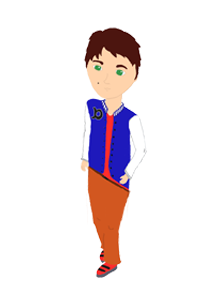
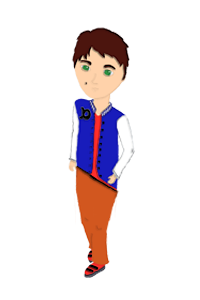
Codigo
Cambios en la animacion, 1 fondo y en la posicion del personaje.

Changed region(s): [[0.33, 0.09, 0.72, 0.93], [0.72, 0.48, 0.75, 0.51]]

diff --git a/Codigo y Pseudo-codigo/Slick2DTest/src/Slick2DTest/Habitacion1.java b/Codigo y Pseudo-codigo/Slick2DTest/src/Slick2DTest/Habitacion1.java
@@ -19,7 +19,7 @@ public class Habitacion1 extends BasicGameState {
     private Principal principal;
     int escenas = 0;
     private Input entrada;
-    float characterPositionX = 250,  characterPositionY = 406;
+    float characterPositionX = 250,  characterPositionY = 376;
     BasicGameState prevState = Principal.prevState;
 
     public Habitacion1(Principal principal) {
@@ -35,7 +35,7 @@ public class Habitacion1 extends BasicGameState {
 
     @Override
     public void init(GameContainer gc, StateBasedGame sbg) throws SlickException {
-       this.habitacion = new Image("res/habitacion1.jpg");
+       this.habitacion = new Image("res/habitacion1-fantasma.jpg");
        this.habitacion1 = new Image ("res/habitacion1-1.jpg");
        this.habitacion2 = new Image ("res/habitacion1-2.jpg");
        this.habitacion3 = new Image ("res/habitacion1-3.jpg");

diff --git a/Codigo y Pseudo-codigo/Slick2DTest/src/Slick2DTest/Habitacion3.java b/Codigo y Pseudo-codigo/Slick2DTest/src/Slick2DTest/Habitacion3.java
@@ -16,7 +16,7 @@ public class Habitacion3 extends BasicGameState {
     private Image habitacion;
     int[] duration = {200,200,200,200};
     private Input entrada;
-    float characterPositionX = 250,  characterPositionY = 406;
+    float characterPositionX = 250,  characterPositionY = 376;
     BasicGameState prevState = Principal.prevState;
     
     
@@ -27,7 +27,7 @@ public class Habitacion3 extends BasicGameState {
 
     @Override
     public void init(GameContainer gc, StateBasedGame sbg) throws SlickException {
-       this.habitacion = new Image("res/habitacion2rota.jpg");
+       this.habitacion = new Image("res/habitacion2-rota.jpg");
        
        Principal.prevState = this;
        Image[] walkRight = {new Image("res/B.ANIM_1.png"),new Image("res/B.ANIM_2.png"),new Image("res/B.ANIM_3.png"),new Image("res/B.ANIM_4.png")}; 

diff --git a/Codigo y Pseudo-codigo/Slick2DTest/src/Slick2DTest/Habitacion2.java b/Codigo y Pseudo-codigo/Slick2DTest/src/Slick2DTest/Habitacion2.java
@@ -16,7 +16,7 @@ public class Habitacion2 extends BasicGameState {
     private Image habitacion;
     int[] duration = {200,200,200,200};
     private Input entrada;
-    float characterPositionX = 250,  characterPositionY = 406;
+    float characterPositionX = 250,  characterPositionY = 376;
     BasicGameState prevState = Principal.prevState;
     MinijuegoLlave minijuego;
 

diff --git a/Codigo y Pseudo-codigo/Slick2DTest/src/Slick2DTest/Pasillo.java b/Codigo y Pseudo-codigo/Slick2DTest/src/Slick2DTest/Pasillo.java
@@ -17,7 +17,7 @@ public class Pasillo extends BasicGameState{
     private Image pasillo;
     int[] duration = {200,200,200,200};
     private Input entrada;
-    float characterPositionX = 24,  characterPositionY = 406;
+    float characterPositionX = 24,  characterPositionY = 376;
     BasicGameState prevState = Principal.prevState;
     private Principal principal;
 

diff --git a/Codigo y Pseudo-codigo/Slick2DTest/src/Slick2DTest/Hallviejo_tuberia.java b/Codigo y Pseudo-codigo/Slick2DTest/src/Slick2DTest/Hallviejo_tuberia.java
@@ -16,7 +16,7 @@ public class Hallviejo_tuberia extends BasicGameState{
     boolean sideright=true;
     int[] duration = {200,200,200,200};
     private Input entrada;
-    float characterPositionX = 24,  characterPositionY = 406;
+    float characterPositionX = 24,  characterPositionY = 376;
     BasicGameState prevState = Principal.prevState;
 
     @Override

diff --git a/Codigo y Pseudo-codigo/Slick2DTest/src/Slick2DTest/Recepcion.java b/Codigo y Pseudo-codigo/Slick2DTest/src/Slick2DTest/Recepcion.java
@@ -16,7 +16,7 @@ public class Recepcion extends BasicGameState{
     int[] duration = {200,200,200,200};
     private Input entrada;
     boolean sideright=true;
-    float characterPositionX = 24,  characterPositionY = 406;
+    float characterPositionX = 24,  characterPositionY = 376;
     BasicGameState prevState = Principal.prevState;
 
     @Override

diff --git a/Codigo y Pseudo-codigo/Slick2DTest/src/Slick2DTest/Hall1.java b/Codigo y Pseudo-codigo/Slick2DTest/src/Slick2DTest/Hall1.java
@@ -16,7 +16,7 @@ public class Hall1 extends BasicGameState{
     boolean sideright=true;
     int[] duration = {200,200,200,200};
     private Input entrada;
-    float characterPositionX = 24,  characterPositionY = 406;
+    float characterPositionX = 24,  characterPositionY = 376;
     BasicGameState prevState = Principal.prevState;
 
     @Override
